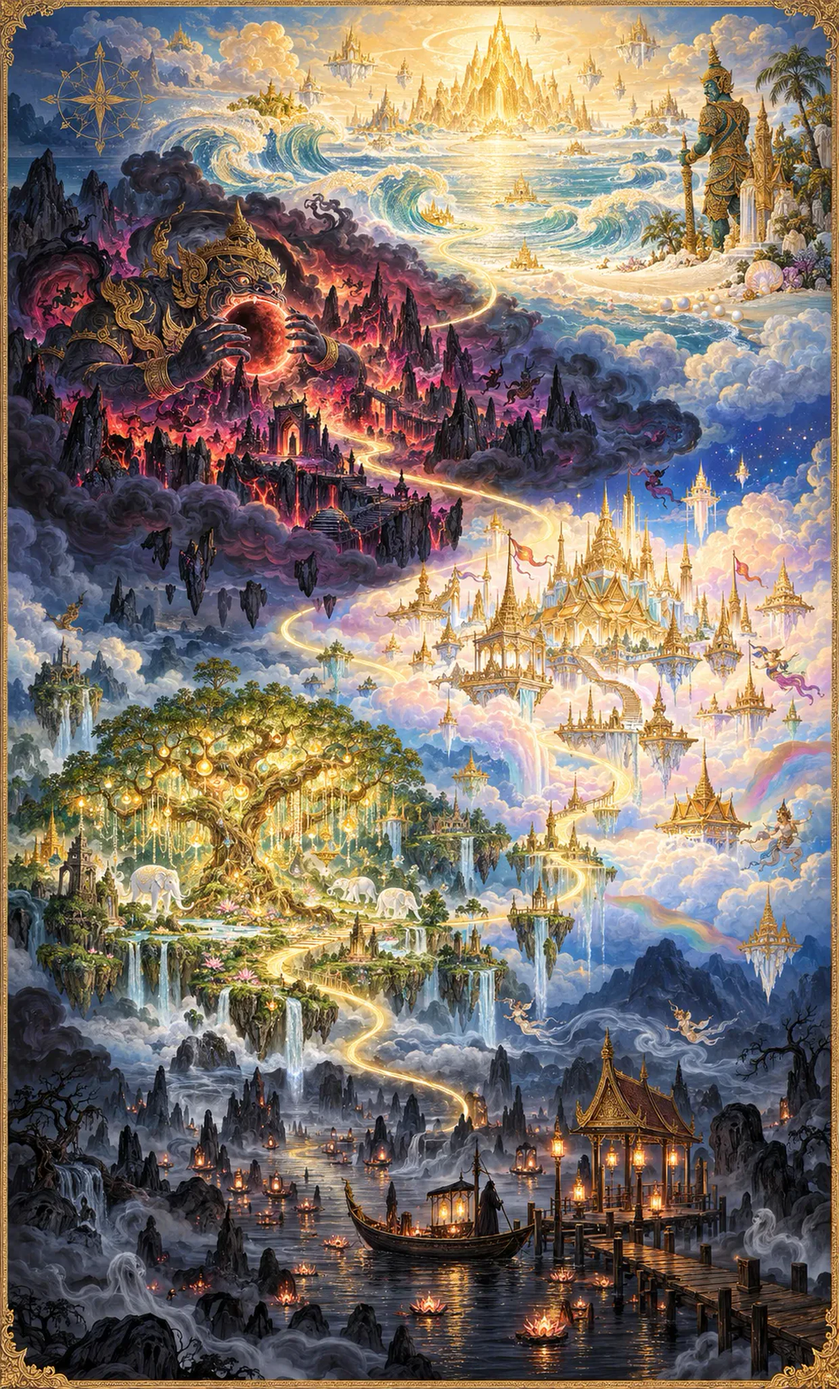
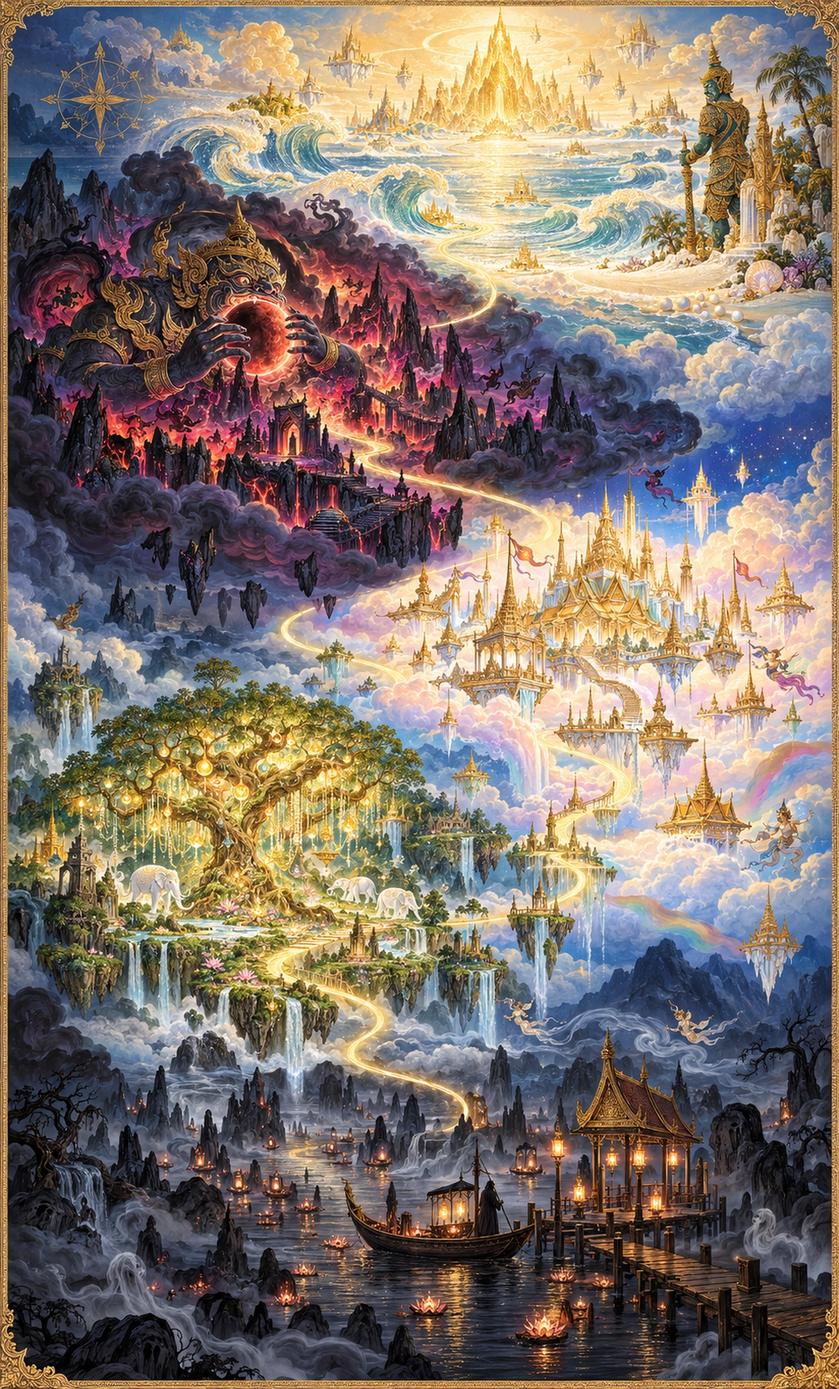
World and rebirth maps: the owner's full-size 1240x2052 images (sharper than the upscaled ones)

diff --git a/game.html b/game.html
@@ -15,4 +15,4 @@
 <dialog id="world-map" class="world-dialog" aria-labelledby="world-title"><header><h1 id="world-title">อยุธยา</h1><div class="map-actions"><button id="map-minus" aria-label="ย่อแผนที่" disabled>−</button><button id="map-plus" aria-label="ขยายแผนที่">+</button><button id="close-world" aria-label="ปิดแผนที่เมือง">×</button></div></header><div id="city-map-viewport" tabindex="0" aria-label="พื้นที่แผนที่ เลื่อนเพื่อดูเมื่อขยาย"><canvas id="city-map" width="1200" height="1164" role="img" aria-label="แผนที่เมืองอยุธยา แสดงถนน คลอง สะพาน อาคาร ย่านต่าง ๆ และตำแหน่งของคุณ"></canvas></div></dialog>
 <!-- Legacy control IDs remain for camera input bindings; this panel is no longer exposed in the UI. --><dialog id="settings-panel" hidden aria-labelledby="settings-title"><div class="settings-heading"><h2 id="settings-title">มุมกล้องและวิธีเล่น</h2><button id="close-settings" aria-label="ปิดเมนูกล้อง">×</button></div><section class="camera-panel panel" aria-label="ควบคุมกล้อง"><div id="status">กำลังเตรียมฉาก</div><div id="angle">มุมกล้อง —</div><div class="camera-buttons"><button id="left" aria-label="หมุนซ้าย" title="Q หมุนซ้าย" disabled>↶</button><button id="right" aria-label="หมุนขวา" title="E หมุนขวา" disabled>↷</button><button id="out" aria-label="ซูมออก" disabled>−</button><button id="in" aria-label="ซูมเข้า" disabled>+</button><button id="reset" aria-label="คืนมุมเริ่มต้น" disabled>⊙</button></div><button id="overview" aria-label="ดูทั้งเมือง" aria-pressed="false">V · ดูทั้งเมือง</button><button id="motion" aria-label="เปิดปิดโมชั่น" aria-pressed="false" disabled>หยุดลมและน้ำ</button><button id="graphics" aria-pressed="true">ภาพละมุน · เปิด</button></section><button id="enter-fullscreen" aria-label="เล่นเต็มจอ">⛶ เต็มจอ</button><section id="directional-pilot-option" hidden><label><input id="directional-pilot" type="checkbox"> <span id="directional-pilot-name">ลองตัวละคร 8 ทิศ · ชุดมาตรฐาน</span></label><p id="directional-pilot-status" role="status">ภาพต้นแบบ · ปิดเพื่อกลับชุดเดิม</p><a id="directional-lab-link" href="./sprite-lab.html" target="_blank" rel="noopener">เปิดห้องลองตัวละคร ↗</a></section><a class="skill-gallery-link" href="./skill-lab.html" target="_blank" rel="noopener">ลานฝึกท่าสกิล · ทุกอาชีพ ↗</a><a class="skill-gallery-link" href="./skill-gallery.html" target="_blank" rel="noopener">สมุดสกิลทุกอาชีพ · 80 ภาพ ↗</a><div class="emote-actions" role="group" aria-label="ท่าทางตัวละคร"><button data-emote="bow">คำนับ</button><button data-emote="celebrate">ดีใจ</button><button data-emote="rest">พัก</button><button data-emote="guard">ตั้งรับ</button></div><p class="touch-guide">ลากจอยซ้ายเพื่อเดิน · แตะมอนเพื่อเลือกเป้า<br>กดโจมตีค้าง หรือเปิด AUTO ให้ช่วยต่อสู้<br>แตะวงล้อสกิล 1–0 · ลากฉากด้านขวาเพื่อหมุนกล้อง<br>ใช้สองนิ้วจีบเพื่อซูม · แตะแผนที่เพื่อดูผังเมือง</p></dialog><div id="travel-loading" role="status" hidden></div>
 
-</div><dialog id="orientation-gate" aria-labelledby="rotate-title"><div class="brand">AYOTHAYA · FOLK MYSTIC</div><div class="rotate-device" aria-hidden="true"></div><h1 id="rotate-title">หมุนเครื่องเป็นแนวนอน</h1><p>ใช้สองมือผจญภัยได้ถนัดขึ้น<br>จอยเดินด้านซ้าย สกิลและโจมตีด้านขวา</p><button id="rotate-fullscreen">เล่นเต็มจอแนวนอน</button><p id="orientation-hint">เกมจะเล่นต่อเมื่อหมุนเครื่องเป็นแนวนอน</p></dialog><section id="journey-loading" class="journey-loading" aria-label="กำลังเตรียมการเดินทาง"><p style="padding:6vw">กำลังเปิดโลกอโยธยา…</p><noscript>กรุณาเปิด JavaScript เพื่อเข้าเกม</noscript></section><script type="module" src="game-boot.js?v=farm217"></script><script type="module" src="friendly-hud.js?v=22"></script><script type="module" src="art-hud.js?v=20"></script><link rel="stylesheet" href="ui-kit.css?v=tier167"><link rel="stylesheet" href="settings-layout.css?v=4"><script type="module" src="settings-layout.js?v=3"></script></body></html>
+</div><dialog id="orientation-gate" aria-labelledby="rotate-title"><div class="brand">AYOTHAYA · FOLK MYSTIC</div><div class="rotate-device" aria-hidden="true"></div><h1 id="rotate-title">หมุนเครื่องเป็นแนวนอน</h1><p>ใช้สองมือผจญภัยได้ถนัดขึ้น<br>จอยเดินด้านซ้าย สกิลและโจมตีด้านขวา</p><button id="rotate-fullscreen">เล่นเต็มจอแนวนอน</button><p id="orientation-hint">เกมจะเล่นต่อเมื่อหมุนเครื่องเป็นแนวนอน</p></dialog><section id="journey-loading" class="journey-loading" aria-label="กำลังเตรียมการเดินทาง"><p style="padding:6vw">กำลังเปิดโลกอโยธยา…</p><noscript>กรุณาเปิด JavaScript เพื่อเข้าเกม</noscript></section><script type="module" src="game-boot.js?v=farm218"></script><script type="module" src="friendly-hud.js?v=22"></script><script type="module" src="art-hud.js?v=20"></script><link rel="stylesheet" href="ui-kit.css?v=tier167"><link rel="stylesheet" href="settings-layout.css?v=4"><script type="module" src="settings-layout.js?v=3"></script></body></html>

diff --git a/world-atlas-ui.js b/world-atlas-ui.js
@@ -3,7 +3,7 @@ import {warpCost,hops} from './world-state.js?v=101.5';
 // 0.112.4 the world map is Thailand (models3d/world-thailand/build_thailand.py renders it in Blender from Natural Earth
 // data). Every place is pinned at a real longitude / latitude, in the same frame the render uses.
 // 0.123 owner: the map fills the window's width and only scrolls up and down (wheel, touch or mouse drag); no zoom
-const FRAME={lon0:96.6,lon1:106.4,lat0:5.2,lat1:21.0},IMG='assets/world112/thailand-painted.webp',ASPECT=1240/2052;
+const FRAME={lon0:96.6,lon1:106.4,lat0:5.2,lat1:21.0},IMG='assets/world112/thailand-painted.webp?v=hd',ASPECT=1240/2052;
 const at=([lon,lat])=>[(lon-FRAME.lon0)/(FRAME.lon1-FRAME.lon0),(FRAME.lat1-lat)/(FRAME.lat1-FRAME.lat0)];
 // Open maps: where each one sits in the real country (the place it is drawn from).
 const PLACES={
@@ -24,7 +24,7 @@ const PLACES={
 const PAINTED={'kailash-peak':[0.349,0.062],'himmapan-edge':[0.251,0.161],'lablae':[0.421,0.229],'ruined-temple':[0.333,0.273],'bamboo-grove':[0.508,0.298],'naga-cave':[0.708,0.214],'lotus-marsh':[0.390,0.347],'moonlit-mill':[0.446,0.403],'rice-fields':[0.308,0.453],'ayutthaya':[0.456,0.449],'old-orchard':[0.487,0.493]};
 // 0.123 owner: a second sheet for the rebirth realms (ไตรภูมิ), climbing from the ferry at the bottom to the shores at the
 // top, on the owner's painted map (each pin on its painted realm); a sheet whose art fails to load shows a night sky.
-const REBIRTH_IMG='assets/world112/rebirth-realms.webp';
+const REBIRTH_IMG='assets/world112/rebirth-realms.webp?v=hd';
 const REBIRTH_PINS={'rebirth-ferry':[.636,.856],'rebirth-kalpa':[.277,.589],'rebirth-gandharva':[.708,.434],'rebirth-rahu':[.338,.291],'rebirth-sithandon':[.615,.112]};
 // Which side of the pin the name sits on, so the crowded central plain stays readable (default below).
 const SIDE={'rebirth-ferry':'r','rebirth-kalpa':'r','rebirth-gandharva':'l','rebirth-rahu':'r','rebirth-sithandon':'r','ayutthaya':'r','bamboo-grove':'r','rice-fields':'l','moonlit-mill':'r','old-orchard':'l','lotus-marsh':'l','ruined-temple':'l','lablae':'r','naga-cave':'r','himmapan-edge':'b'};

diff --git a/world-ui.js b/world-ui.js
@@ -3,7 +3,7 @@ import {rebirthAccess} from './rebirth-content196.js';
 import {createNPCConversation} from './npc-conversation155.js?v=hire177';
 import {nearestTalkNPC,opaqueNPCHit} from './npc-interaction.js?v=137';
 import {getLoadingScreen} from './loading-screen.js?v=105.0';
-import {createWorldAtlas} from './world-atlas-ui.js?v=farm217';
+import {createWorldAtlas} from './world-atlas-ui.js?v=farm218';
 import {openHudPanel} from './hud-panels.js?v=34';
 import {drawMap} from './city-map.js?v=107';
 import {createMentorUI} from './mentor-ui.js?v=farm211';

diff --git a/viewer-world.js b/viewer-world.js
@@ -39,7 +39,7 @@ import {createAmbientMotion} from './ambient-motion.js?v=size1';
 import {createGame} from './game-controls.js?v=farm213';
 import {atlasPath,className} from './classes.js?v=novice174';
 import {atlasCell} from './sprite-motion.js';
-import {createWorldUI} from './world-ui.js?v=farm217';
+import {createWorldUI} from './world-ui.js?v=farm218';
 import {createStoryUI} from './story-ui.js?v=farm212';
 import {createPrologueUI} from './prologue-ui.js?v=farm215';
 import {TRIAL_CLASSES} from './prologue.js?v=2';

diff --git a/game-boot.js b/game-boot.js
@@ -1,3 +1,3 @@
 import {getLoadingScreen} from './loading-screen.js?v=105.0';
 const loading=getLoadingScreen();loading.show(new URLSearchParams(location.search).get('map')||'ayutthaya');
-import('./viewer-world.js?v=farm217').catch(error=>{console.error(error);loading.fail();});
+import('./viewer-world.js?v=farm218').catch(error=>{console.error(error);loading.fail();});
